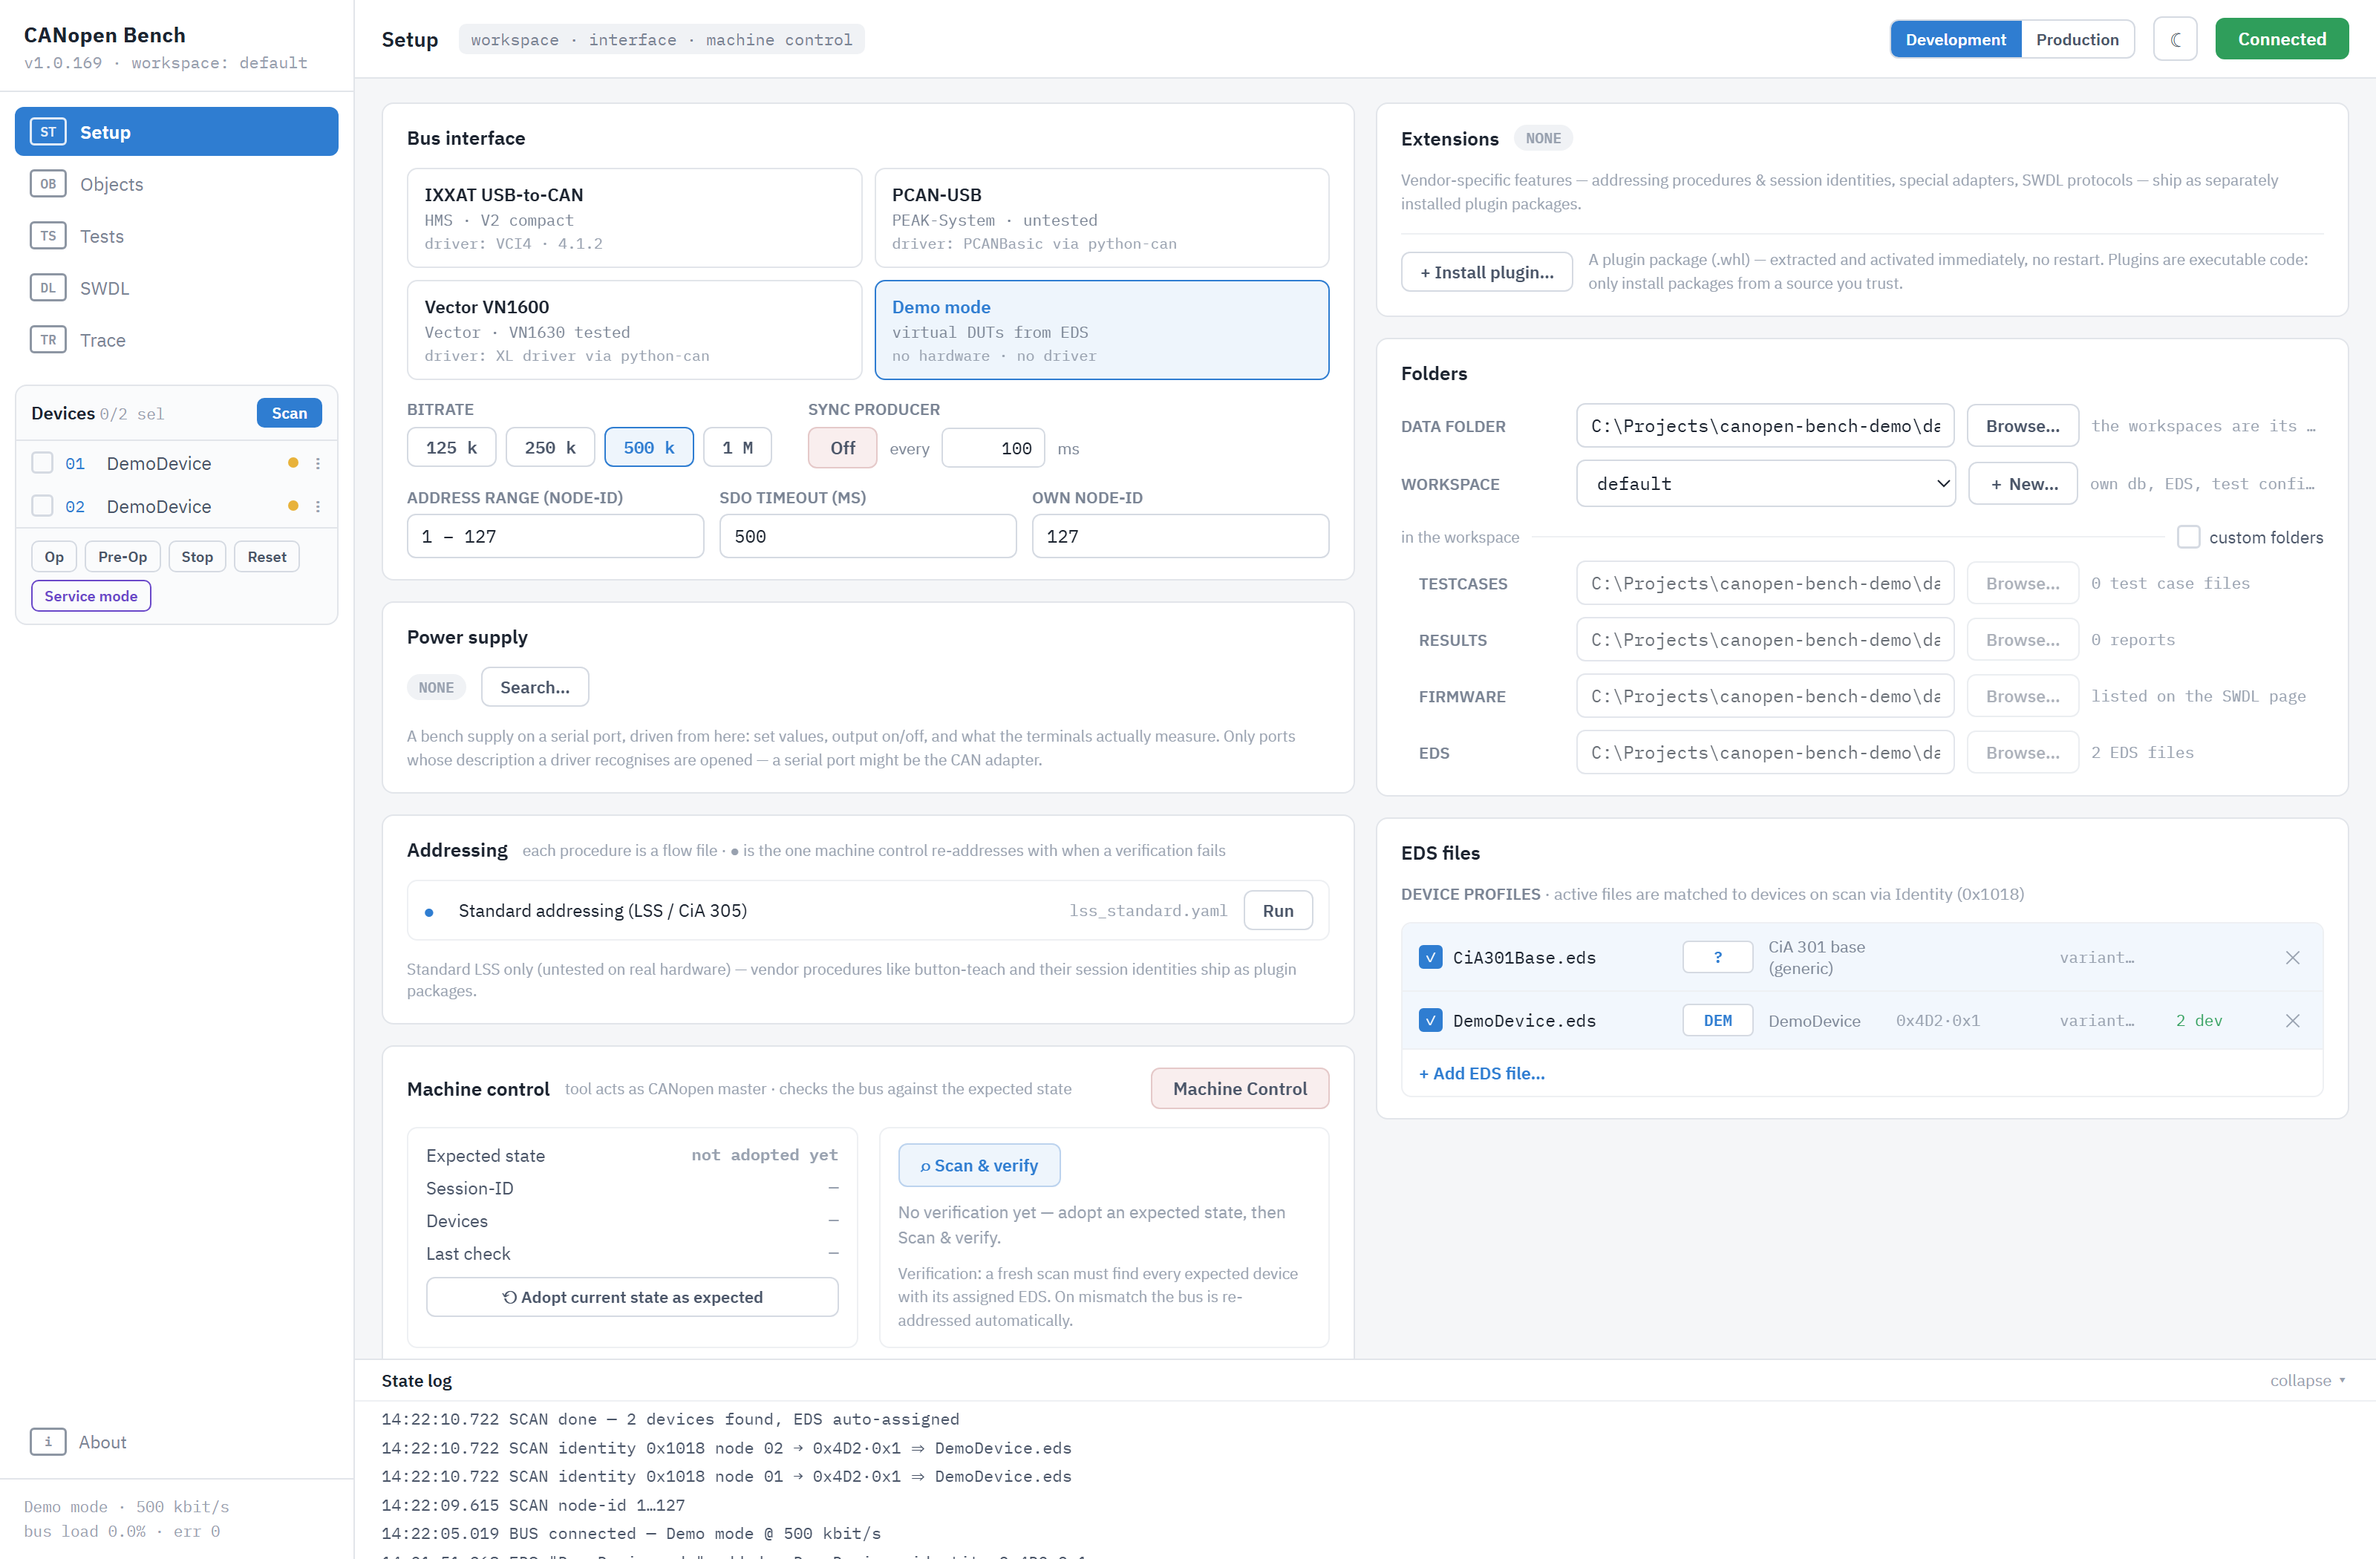
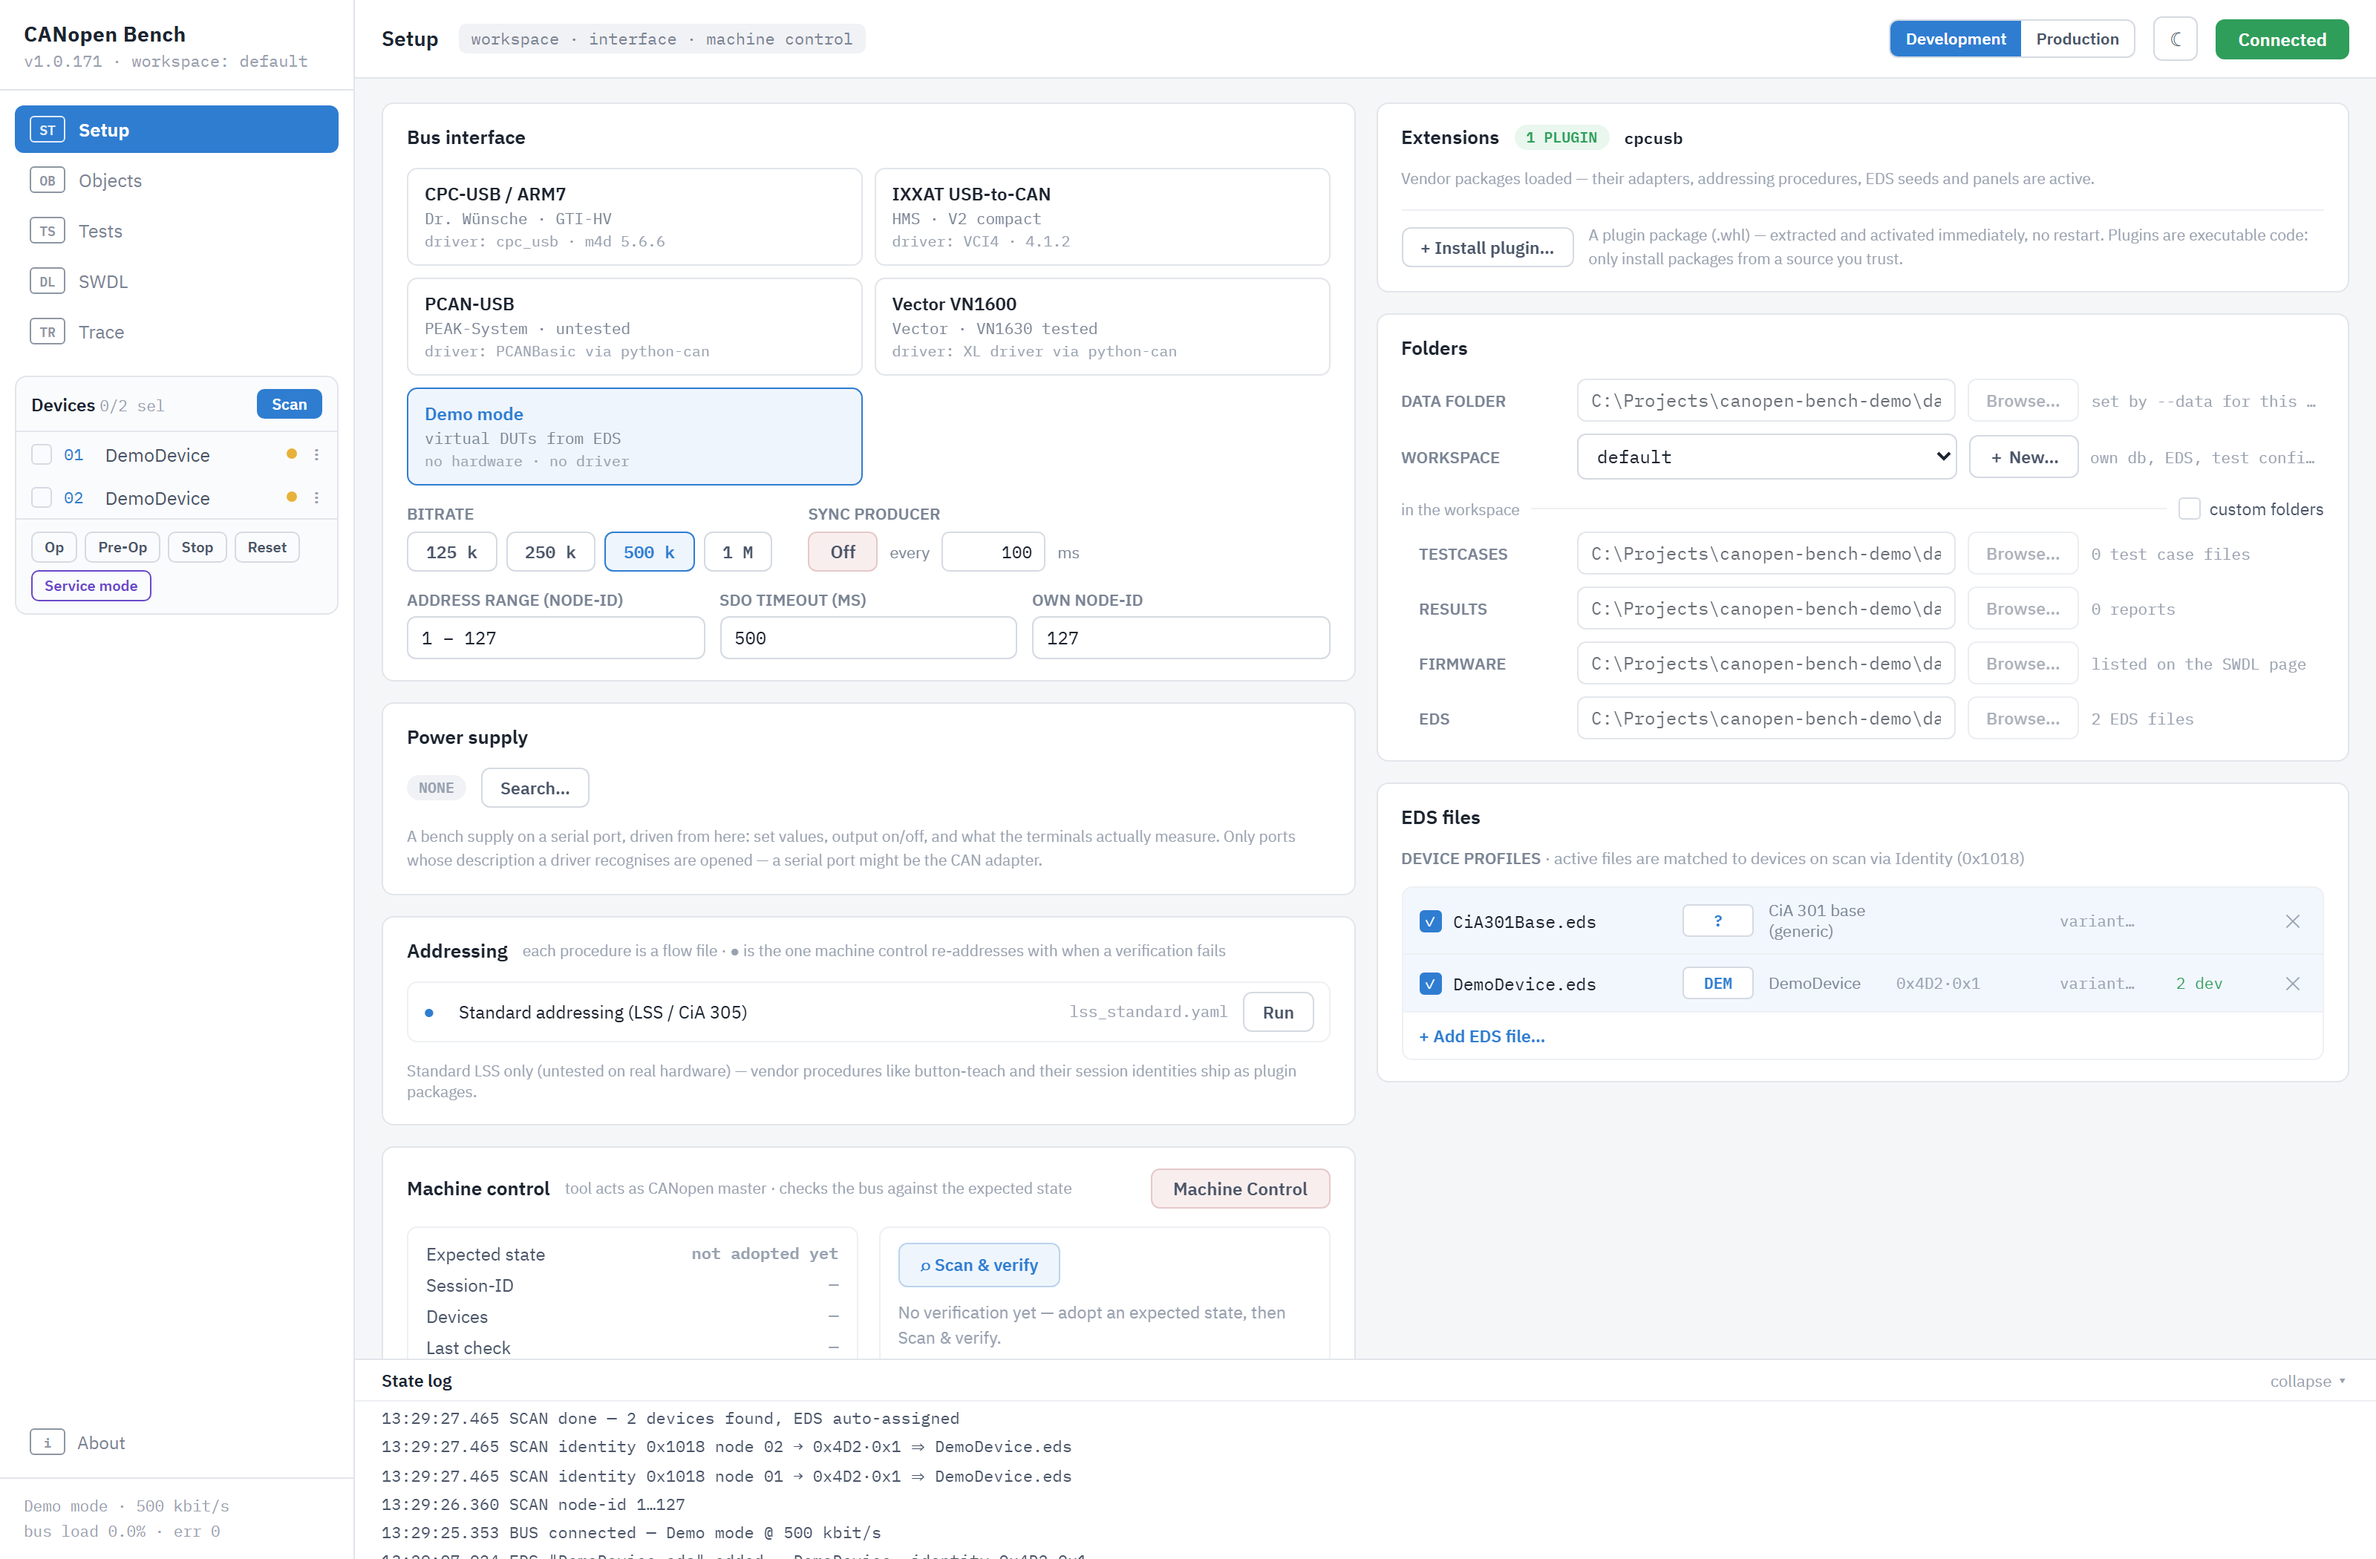
README: screenshots in the reader's color scheme
Setup and Trace each come in light and dark now, in a <picture> that
GitHub serves by the reader's theme. PyPI drops the <source> and shows
the light one. The light files keep the old names, so the README of
versions already on PyPI still finds its images. Shot from a fresh
pip install of 1.0.171, which brings the CPC-USB adapter card.

diff --git a/README.md b/README.md
@@ -6,7 +6,10 @@ driven by the devices' EDS files. Python backend (Starlette +
 canopen/python-can), no-build frontend (Preact/HTM), one self-contained
 workspace folder per bench.
 
-![Live CAN trace (dark mode): SDO transfers decoded against the EDS, heartbeats, state log](https://raw.githubusercontent.com/NobseVomBerg/CANopen-Bench/main/docs/img/trace.png)
+<picture>
+  <source media="(prefers-color-scheme: dark)" srcset="https://raw.githubusercontent.com/NobseVomBerg/CANopen-Bench/main/docs/img/trace-dark.png">
+  <img alt="Live CAN trace: SDO transfers decoded against the EDS, heartbeats, state log" src="https://raw.githubusercontent.com/NobseVomBerg/CANopen-Bench/main/docs/img/trace.png">
+</picture>
 
 ## Try it — no hardware needed
 
@@ -46,7 +49,10 @@ the workspace on first run). SDO reads/writes are answered from the EDS
 object dictionary — including realistic aborts on out-of-range writes —
 and every access shows up in the Trace like real bus traffic.
 
-![Setup page: bus interface, EDS registry with identity matching, machine control](https://raw.githubusercontent.com/NobseVomBerg/CANopen-Bench/main/docs/img/setup.png)
+<picture>
+  <source media="(prefers-color-scheme: dark)" srcset="https://raw.githubusercontent.com/NobseVomBerg/CANopen-Bench/main/docs/img/setup-dark.png">
+  <img alt="Setup page: bus interface, EDS registry with identity matching, machine control" src="https://raw.githubusercontent.com/NobseVomBerg/CANopen-Bench/main/docs/img/setup.png">
+</picture>
 
 ## Features
 
